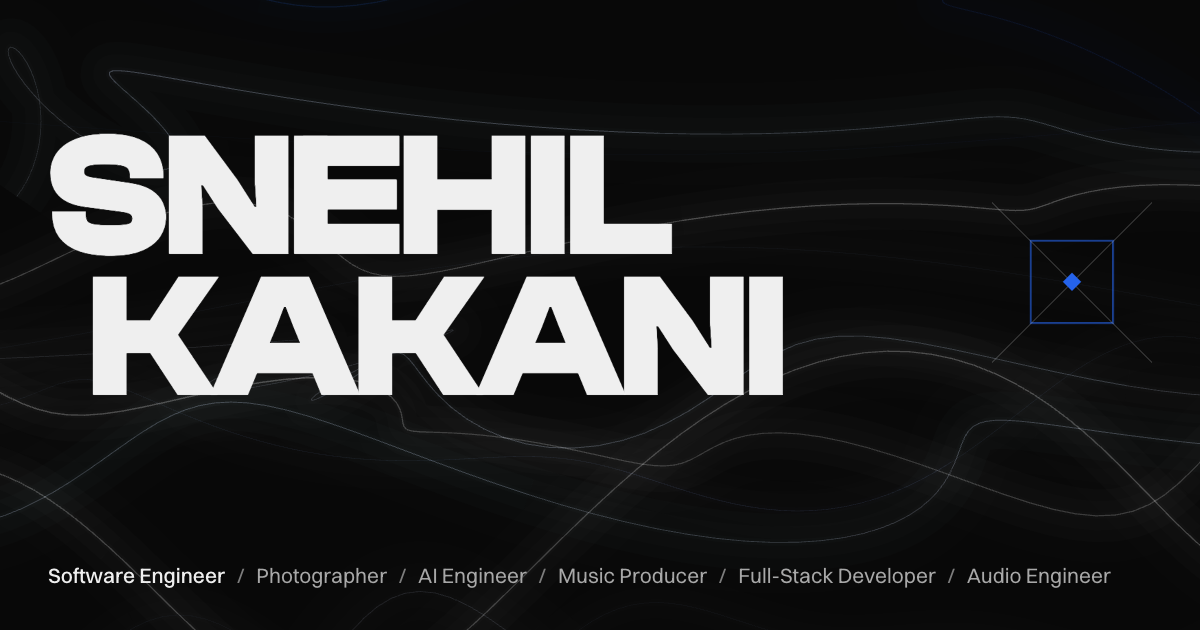
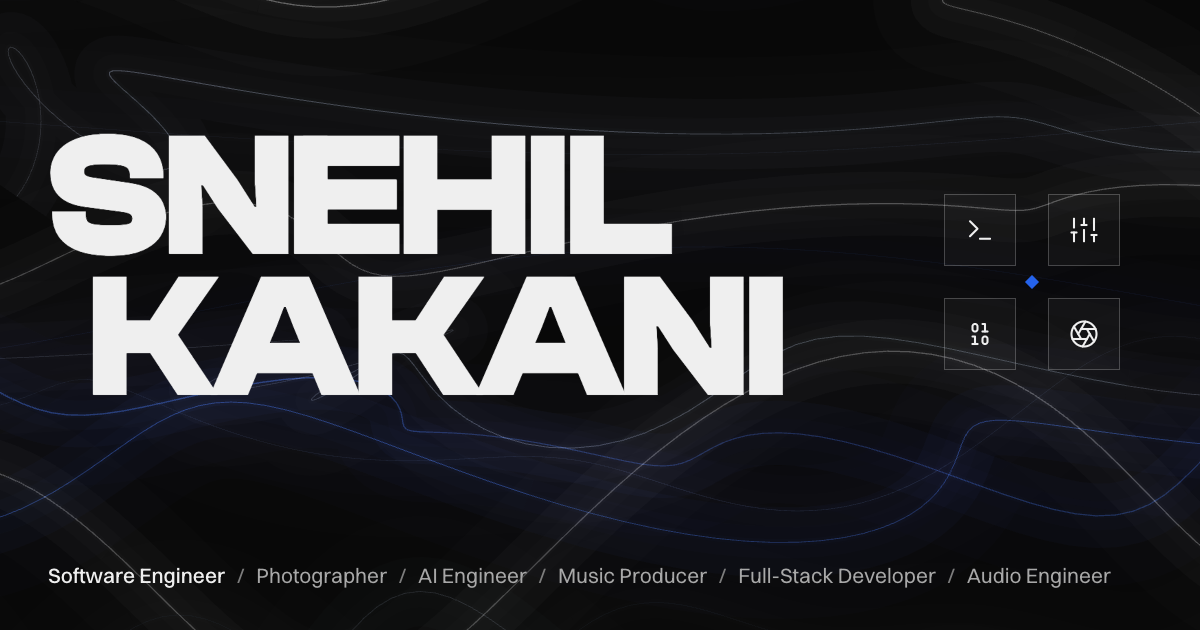
feat: refactor loader components and update visuals with LoaderMatrix integration

diff --git a/app/lib/components/shared/WaveField.tsx b/app/lib/components/shared/WaveField.tsx
@@ -52,11 +52,11 @@ const BLOOM_WIDTH_SCALE = 5;
 const BLOOM_ALPHA_SHARE = 0.22;
 const BLOOM_BANDS = 4;
 
-const POSTER_CORE_ALPHA_SCALE = 2.6;
+const POSTER_CORE_ALPHA_SCALE = 2.8;
 const POSTER_SOFT_BANDS = 1;
 const POSTER_SOFT_PASSES: readonly [readonly [number, number], readonly [number, number]] = [
-  [9, 0.1],
-  [16, 0.045],
+  [11, 0.17],
+  [24, 0.075],
 ];
 
 const DEFOCUS_BY_DEPTH = 1.7;
@@ -65,6 +65,8 @@ const MAX_DPR = 1.5;
 
 const ACCENT_COLOR = "37, 99, 235";
 const ACCENT_ALPHA_SCALE = 0.5;
+const POSTER_ACCENT_COLOR = "68, 120, 238";
+const POSTER_ACCENT_ALPHA_SCALE = 1.5;
 
 const FREQ_SCALE = 2.7;
 const FREQ_RATIOS = [1, 1.37, 1.71, 2.13, 0.79, 1.53, 2.31, 0.61, 1.19, 1.83, 0.93, 2.47];
@@ -149,6 +151,7 @@ interface CurveConfig {
   xOffset: number;
   alpha: number;
   isAccent: boolean;
+  posterAccent: boolean;
 }
 
 function buildCurves(): CurveConfig[] {
@@ -198,6 +201,7 @@ function buildCurves(): CurveConfig[] {
         xOffset: (frac2 - 0.5) * 0.7,
         alpha: BASE_ALPHA_MIN + frac2 * (BASE_ALPHA_MAX - BASE_ALPHA_MIN),
         isAccent: i % 7 === 2,
+        posterAccent: i % 3 === 0,
       });
 
       i++;
@@ -292,6 +296,7 @@ export default function WaveField({
         };
       });
 
+      const isPoster = variant === "poster";
       for (const curve of curves) {
         const layer = LAYERS[curve.layer];
         const { lt, cosY, sinY, cosX, sinX } = layerState[curve.layer];
@@ -337,11 +342,13 @@ export default function WaveField({
           pDefocus[s] = 1 + DEFOCUS_BY_DEPTH * (1 - depthT);
         }
 
-        const rgb = curve.isAccent ? ACCENT_COLOR : LAYER_RGB[curve.layer];
+        const usesAccent = isPoster ? curve.posterAccent : curve.isAccent;
+        const rgb = usesAccent ? (isPoster ? POSTER_ACCENT_COLOR : ACCENT_COLOR) : LAYER_RGB[curve.layer];
         const baseAlpha =
-          curve.alpha * layer.alphaScale * (curve.isAccent ? ACCENT_ALPHA_SCALE : 1);
+          curve.alpha *
+          layer.alphaScale *
+          (usesAccent ? (isPoster ? POSTER_ACCENT_ALPHA_SCALE : ACCENT_ALPHA_SCALE) : 1);
 
-        const isPoster = variant === "poster";
         const passCount = isPoster ? 5 : 3;
         const visibleSample = samples;
         for (let pass = 0; pass < passCount; pass++) {

diff --git a/app/lib/components/loader/OrbitStage.tsx b/app/lib/components/loader/OrbitStage.tsx
@@ -7,7 +7,7 @@ import { EASE_OUT } from "@/app/lib/motion";
 const RADIUS = 140;
 export const RELEASE_MS = 1000;
 
-const ORBIT_MARKS = [
+export const LOADER_MARKS = [
   {
     Icon: Terminal,
     label: "engineering",
@@ -47,19 +47,16 @@ export default function OrbitStage({
   scale = 1,
   frozen = false,
   showLabels = false,
-  detail = "full",
 }: {
   complete: boolean;
   scale?: number;
   frozen?: boolean;
   showLabels?: boolean;
-  detail?: "full" | "signal";
 }) {
-  const isSignal = detail === "signal";
   const markSize = 44 * scale;
   const iconSize = 18 * scale;
   const centerSize = 64 * scale;
-  const lineLength = (isSignal ? RADIUS * 0.62 : RADIUS) * scale;
+  const lineLength = RADIUS * scale;
 
   return (
     <motion.div
@@ -110,7 +107,7 @@ export default function OrbitStage({
             }}
           />
 
-          {ORBIT_MARKS.map(({ angle }, index) => {
+          {LOADER_MARKS.map(({ angle }, index) => {
             const delayMs = complete ? index * 30 : (0.22 + index * 0.1) * 1000;
             const durationMs = complete ? RELEASE_MS - delayMs : 550;
             return (
@@ -140,8 +137,7 @@ export default function OrbitStage({
             );
           })}
 
-          {!isSignal &&
-            ORBIT_MARKS.map(({ Icon, label, x, y, release }, index) => {
+          {LOADER_MARKS.map(({ Icon, label, x, y, release }, index) => {
               const delayMs = complete ? index * 50 : (0.2 + index * 0.1) * 1000;
               const durationMs = complete ? RELEASE_MS - delayMs : 620;
               return (

diff --git a/app/lib/components/meta/MetaImageCanvas.tsx b/app/lib/components/meta/MetaImageCanvas.tsx
@@ -1,11 +1,10 @@
 "use client";
 
 import { ROLES } from "@/app/lib/components/home/RoleCycle";
-import OrbitStage from "@/app/lib/components/loader/OrbitStage";
+import LoaderMatrix from "@/app/lib/components/loader/LoaderMatrix";
 import WaveField from "@/app/lib/components/shared/WaveField";
 
 const FROZEN_MS = 4000;
-const SIGNAL_SCALE = 1.3;
 
 export default function MetaImageCanvas() {
   return (
@@ -25,8 +24,11 @@ export default function MetaImageCanvas() {
         <span className="ml-10 block whitespace-nowrap">KAKANI</span>
       </h1>
 
-      <div aria-hidden="true" className="absolute right-12 top-[202px] z-10 h-40 w-40">
-        <OrbitStage complete={false} frozen detail="signal" scale={SIGNAL_SCALE} />
+      <div
+        aria-hidden="true"
+        className="absolute right-20 top-[194px] z-10 h-[176px] w-[176px]"
+      >
+        <LoaderMatrix />
       </div>
 
       <ul className="absolute inset-x-12 bottom-11 z-10 m-0 flex list-none items-baseline p-0 font-sans text-[length:var(--text-meta-ribbon)] leading-none">

diff --git a/app/lib/components/meta/LinkedInBannerCanvas.tsx b/app/lib/components/meta/LinkedInBannerCanvas.tsx
@@ -1,11 +1,10 @@
 "use client";
 
 import { ROLES } from "@/app/lib/components/home/RoleCycle";
-import OrbitStage from "@/app/lib/components/loader/OrbitStage";
+import LoaderMatrix from "@/app/lib/components/loader/LoaderMatrix";
 import WaveField from "@/app/lib/components/shared/WaveField";
 
 const FROZEN_MS = 4000;
-const LOADER_SCALE = 0.9;
 
 export default function LinkedInBannerCanvas() {
   return (
@@ -35,8 +34,16 @@ export default function LinkedInBannerCanvas() {
         ))}
       </ul>
 
-      <div aria-hidden="true" className="absolute inset-y-0 right-12 z-10 w-[218px]">
-        <OrbitStage complete={false} frozen scale={LOADER_SCALE} />
+      <div
+        aria-hidden="true"
+        className="absolute left-[1198px] top-[198px] z-10 h-px w-[218px] bg-white/[0.22]"
+      />
+
+      <div
+        aria-hidden="true"
+        className="absolute right-20 top-[110px] z-10 h-[176px] w-[176px]"
+      >
+        <LoaderMatrix />
       </div>
     </section>
   );

diff --git a/app/lib/components/loader/LoaderMatrix.tsx b/app/lib/components/loader/LoaderMatrix.tsx
@@ -1,0 +1,32 @@
+"use client";
+
+import { LOADER_MARKS } from "./OrbitStage";
+
+const PATTERN = [
+  [0, 1],
+  [3, 2],
+];
+
+export default function LoaderMatrix() {
+  return (
+    <div className="absolute inset-0 grid grid-cols-2 grid-rows-2 gap-8">
+      {PATTERN.map((row, rowIndex) =>
+        row.map((markIndex, colIndex) => {
+          const { Icon } = LOADER_MARKS[markIndex];
+          return (
+            <div
+              key={`${rowIndex}-${colIndex}`}
+              className="flex items-center justify-center border border-white/[0.22] bg-white/[0.03] text-fg"
+            >
+              <Icon size={30} strokeWidth={1.65} aria-hidden="true" />
+            </div>
+          );
+        }),
+      )}
+      <span
+        className="absolute left-1/2 top-1/2 block rotate-45 bg-accent"
+        style={{ width: 10, height: 10, translate: "-50% -50%" }}
+      />
+    </div>
+  );
+}
